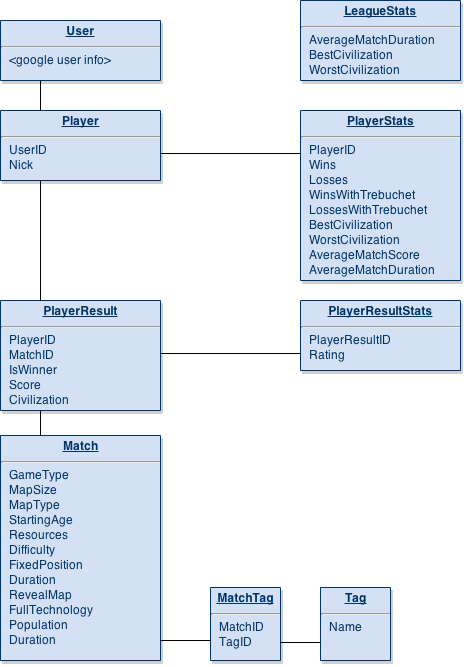
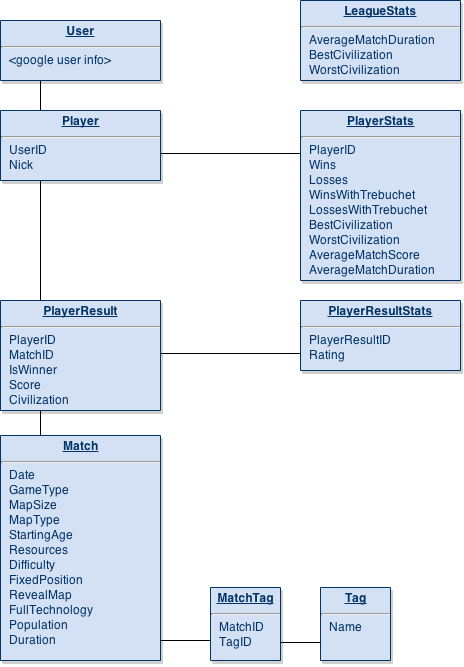
Game models added, gamesettings in 1 api call

Changed region(s): [[0.0, 0.6897, 0.181, 0.8996]]

diff --git a/api/gamesettings.py b/api/gamesettings.py
@@ -1,61 +1,12 @@
 import webapp2
 import json
-import models
+from models import Game
 
 class GameSettingsHandler(webapp2.RequestHandler):
-    def get(self, settingname=None):
+    def get(self):
         self.response.headers['Content-Type'] = 'application/json'
-
-        if settingname == 'gametypes':
-            obj = [
-                {'id': '1', 'label': 'Game type 1'},
-                {'id': '2', 'label': 'Game type 2'},
-                {'id': '3', 'label': 'Game type 3'}
-            ]
-        elif settingname == 'mapstyles':
-            obj = [
-                {'id': '1', 'label': 'Map style 1'},
-                {'id': '2', 'label': 'Map style 2'},
-                {'id': '3', 'label': 'Map style 3'}
-            ]
-
-        elif settingname == 'civilizations':
-            obj = [
-                {'id': '1', 'label': 'Aztecs'},
-                {'id': '2', 'label': 'Britons'},
-                {'id': '3', 'label': 'Byzantines'},
-                {'id': '4', 'label': 'Celts'},
-                {'id': '5', 'label': 'Chinese'},
-                {'id': '6', 'label': 'Franks'},
-                {'id': '7', 'label': 'Goths'},
-                {'id': '8', 'label': 'Huns'},
-                {'id': '9', 'label': 'Incas'},
-                {'id': '10', 'label': 'Indians'},
-                {'id': '11', 'label': 'Italians'},
-                {'id': '12', 'label': 'Japanese'},
-                {'id': '13', 'label': 'Koreans'},
-                {'id': '14', 'label': 'Magyars'},
-                {'id': '15', 'label': 'Mayans'},
-                {'id': '16', 'label': 'Mongols'},
-                {'id': '17', 'label': 'Persians'},
-                {'id': '18', 'label': 'Saracens'},
-                {'id': '19', 'label': 'Slavs'},
-                {'id': '10', 'label': 'Spanish'},
-                {'id': '21', 'label': 'Teutons'},
-                {'id': '22', 'label': 'Turks'},
-                {'id': '23', 'label': 'Vikings'}
-            ]
-        else:
-            obj = [
-                {'id': '1', 'label': 'Test1'},
-                {'id': '2', 'label': 'Test2'},
-                {'id': '3', 'label': 'Test3'}
-            ]
-
-
-        self.response.out.write(json.dumps(obj))
-
+        self.response.out.write(json.dumps(Game._settings_data()))
 
 app = webapp2.WSGIApplication([
-    webapp2.Route(r'/api/gamesettings/<settingname>', handler=GameSettingsHandler, name='gamesetting')
+    (r'/api/gamesettings/', GameSettingsHandler)
 ], debug=True)

diff --git a/models.py b/models.py
@@ -1,7 +1,44 @@
 from google.appengine.ext import ndb
 
 class Player(ndb.Model):
-    nick = ndb.StringProperty()
+    nick = ndb.StringProperty(required=True)
     
     def get_data(self):
         return {'id': self.key.id(), 'nick': self.nick}
+
+class Game(ndb.Model):
+    date = ndb.DateProperty(required=True)
+    game_type = ndb.StringProperty(required=True, choices=['GameType 1', 'GameType 2'])
+    map_size = ndb.StringProperty(required=True, choices=['small', 'LOL', 'big'])
+    map_type = ndb.StringProperty(required=True, choices=['typex', 'typey'])
+    starting_age = ndb.StringProperty(required=True, choices=['Dark Age', 'Feudual Age', 'Castle Age', 'Imperial Age'])
+    resources = ndb.StringProperty(required=True, choices=['low'])
+    difficulty = ndb.StringProperty(required=True, choices=['easy'])
+    fixed_position = ndb.BooleanProperty(required=True)
+    reveal_map = ndb.BooleanProperty(required=True)
+    full_technology = ndb.BooleanProperty(required=True)
+    population = ndb.IntegerProperty(required=True, choices=[50,100,200])
+    duration_seconds = ndb.IntegerProperty(required=True)
+    trebuchet_allowed = ndb.BooleanProperty(required=True)
+    @classmethod
+    def _settings_data(cls):
+        return {
+            'game_types': list(cls.game_type._choices),
+            'map_size': list(cls.map_type._choices),
+            'map_type': list(cls.map_type._choices),
+            'starting_age': list(cls.starting_age._choices),
+            'resources': list(cls.resources._choices),
+            'difficulty': list(cls.difficulty._choices),
+            'population': list(cls.population._choices)
+        }
+    
+class PlayerResult(ndb.Model):
+    player = ndb.KeyProperty(required=True, kind=Player)
+    game = ndb.KeyProperty(required=True, kind=Game)
+    is_winner = ndb.BooleanProperty(default=False)
+    score = ndb.IntegerProperty(required=True)
+    civilization = ndb.StringProperty(required=True, choices=['Aztec', 'Franks'])
+    
+class PlayerResultStats(ndb.Model):
+    player_result = ndb.KeyProperty(required=True, kind=PlayerResult)
+    rating = ndb.IntegerProperty(required=True)
